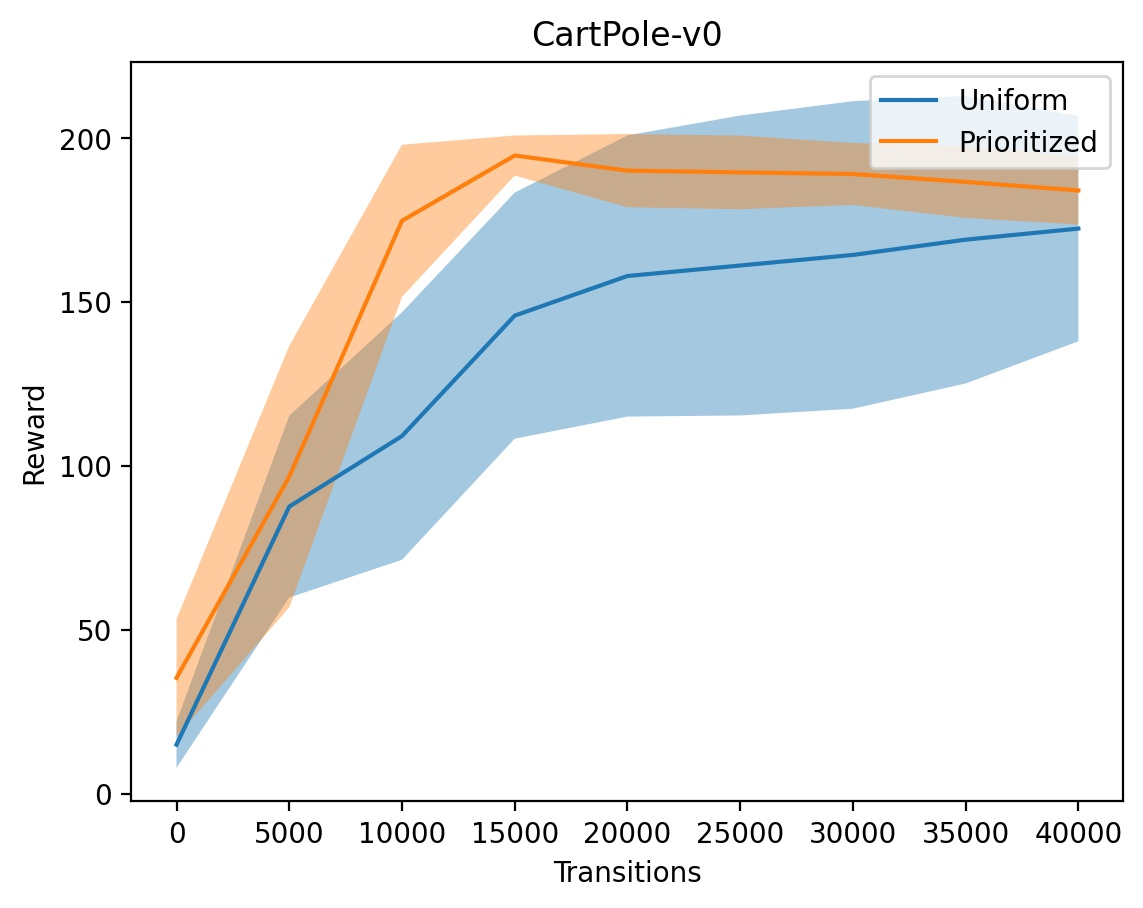
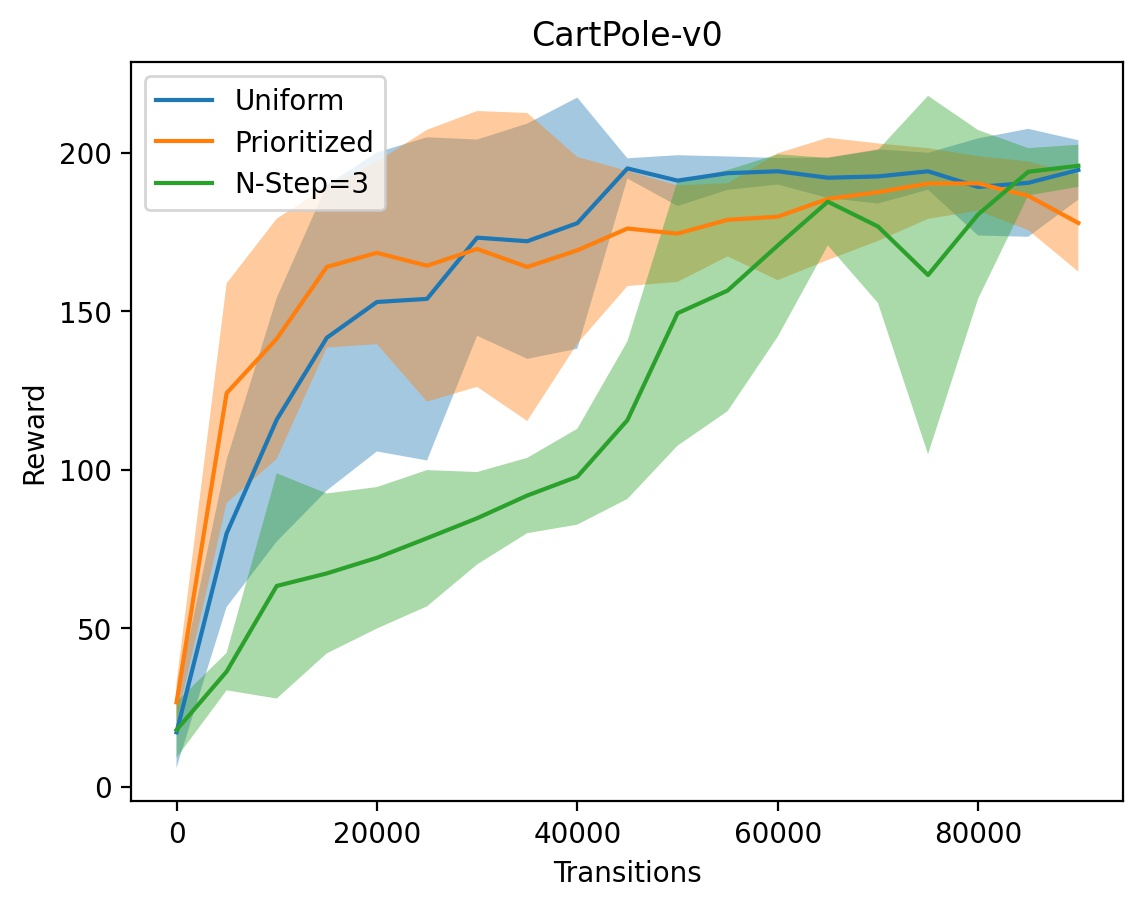
fix bug with beta

diff --git a/train.py b/train.py
@@ -6,8 +6,8 @@ import torch.nn as nn
 import torch.optim as optim
 
 from copy import deepcopy
-from memory.utils import device, set_seed
-from memory.buffer import ReplayBuffer, PrioritizedReplayBuffer
+from memory.utils import device, set_seed, linear_schedule
+from memory.buffer import ReplayBuffer, PrioritizedReplayBuffer, NStepReplayBuffer
 
 
 class DQN:
@@ -85,6 +85,9 @@ def train(env_name, model, buffer, timesteps=200_000, start_train=1000, batch_si
     env = gym.make(env_name)
     set_seed(env, seed=seed)
 
+    if hasattr(buffer, "reset_scheduler"):
+        buffer.reset_scheduler()
+
     rewards_total, stds_total = [], []
     loss_count, total_loss = 0, 0
 
@@ -111,7 +114,7 @@ def train(env_name, model, buffer, timesteps=200_000, start_train=1000, batch_si
         state = next_state
 
         if step > start_train:
-            if isinstance(buffer, ReplayBuffer):
+            if isinstance(buffer, ReplayBuffer) or isinstance(buffer, NStepReplayBuffer):
                 batch = buffer.sample(batch_size)
                 loss, td_error = model.update(batch)
             elif isinstance(buffer, PrioritizedReplayBuffer):
@@ -119,7 +122,6 @@ def train(env_name, model, buffer, timesteps=200_000, start_train=1000, batch_si
                 loss, td_error = model.update(batch, weights=weights)
 
                 buffer.update_priorities(tree_idxs, td_error.numpy())
-                buffer.beta = buffer.beta - (buffer.beta - 1.0) * step / timesteps
             else:
                 raise RuntimeError("Unknown buffer")
 
@@ -130,12 +132,12 @@ def train(env_name, model, buffer, timesteps=200_000, start_train=1000, batch_si
                 mean, std = evaluate_policy(env_name, model, episodes=10, seed=seed)
 
                 print(f"Episode: {episodes}, Step: {step}, Reward mean: {mean:.2f}, Reward std: {std:.2f}, Loss: {total_loss / loss_count:.4f}, Eps: {eps}")
-                if hasattr(buffer, 'max_priority'):
-                    print(f"Max priority: {buffer.max_priority}")
+                # if hasattr(buffer, 'max_priority'):
+                    # print(f"Max priority: {buffer.max_priority}")
 
                 if mean > best_reward:
                     best_reward = mean
-                    model.save()
+                    # model.save()
 
                 rewards_total.append(mean)
                 stds_total.append(std)
@@ -143,13 +145,15 @@ def train(env_name, model, buffer, timesteps=200_000, start_train=1000, batch_si
     return np.array(rewards_total), np.array(stds_total)
 
 
-def run_experiment(config, use_priority=False, n_seeds=10):
+def run_experiment(config, use_priority=False, use_nstep=False, n_seeds=10):
     torch.manual_seed(0)
     mean_rewards = []
 
     for seed in range(5, n_seeds + 5):
         if use_priority:
             buffer = PrioritizedReplayBuffer(**config["buffer"])
+        elif use_nstep:
+            buffer = NStepReplayBuffer(**config["buffer"])
         else:
             buffer = ReplayBuffer(**config["buffer"])
         model = DQN(**config["model"])
@@ -164,35 +168,13 @@ def run_experiment(config, use_priority=False, n_seeds=10):
 
 if __name__ == "__main__":
     import matplotlib.pyplot as plt
+    SEEDS = 1
 
-    # config = {
-    #     "buffer": {
-    #         "state_size": 8,
-    #         "action_size": 1,  # action is discrete
-    #         "buffer_size": 100_000
-    #     },
-    #     "model": {
-    #         "state_size": 8,
-    #         "action_size": 4,
-    #         "gamma": 0.99,
-    #         "lr": 1e-3,
-    #         "tau": 0.001
-    #     },
-    #     "train": {
-    #         "env_name": "LunarLander-v2",
-    #         "timesteps": 500_000,
-    #         "start_train": 10_000,
-    #         "batch_size": 128,
-    #         "test_every": 5000,
-    #         "eps_max": 0.5
-    #     }
-    # }
-
-    config = {
+    common_config = {
         "buffer": {
             "state_size": 4,
             "action_size": 1,  # action is discrete
-            "buffer_size": 50_000
+            "buffer_size": 50_000,
         },
         "model": {
             "state_size": 4,
@@ -204,30 +186,41 @@ if __name__ == "__main__":
         "train": {
             "env_name": "CartPole-v0",
             "timesteps": 50_000,
-            "start_train": 5000,
+            "start_train": 1000,
             "batch_size": 64,
             "test_every": 5000,
-            "eps_max": 0.2
+            "eps_max": 0.8,
+            "eps_min": 0.1,
         }
     }
-    priority_config = deepcopy(config)
-    priority_config["buffer"].update({"alpha": 0.8, "beta": 0.3})
 
-    mean_reward, std_reward = run_experiment(config, n_seeds=5)
-    mean_priority_reward, std_priority_reward = run_experiment(priority_config, use_priority=True, n_seeds=5)
+    priority_config = deepcopy(common_config)
+    # TODO: для чистоты сравнения вырубить эксплоринг, тогда все плюсы будут исключительно от приоритизации, а не рандома
+    # TODO: проверить что при alpha=0, beta=1 результат аналогичен обычному буферу
+    priority_config["buffer"].update({"alpha": 0.6, "beta": 0.4, "beta_scheduler": linear_schedule(1.0, 50_000)})
 
-    steps = np.arange(mean_reward.shape[0]) * config["train"]["test_every"]
+    # nstep_config = deepcopy(common_config)
+    # nstep_config["buffer"].update({"n_step": 2, "gamma": 0.99})
 
-    plt.plot(steps, mean_reward, label="Uniform")
-    plt.fill_between(steps, mean_reward - std_reward, mean_reward + std_reward, alpha=0.4)
+    mean_reward, std_reward = run_experiment(common_config, n_seeds=SEEDS)
+    mean_priority_reward, std_priority_reward = run_experiment(priority_config, use_priority=True, n_seeds=SEEDS)
+    # mean_nstep_reward, std_nstep_reward = run_experiment(nstep_config, use_nstep=True, n_seeds=SEEDS)
+
+    steps = np.arange(mean_priority_reward.shape[0]) * common_config["train"]["test_every"]
+
+    # plt.plot(steps, mean_reward, label="Uniform")
+    # plt.fill_between(steps, mean_reward - std_reward, mean_reward + std_reward, alpha=0.4)
+
     plt.plot(steps, mean_priority_reward, label="Prioritized")
     plt.fill_between(steps, mean_priority_reward - std_priority_reward, mean_priority_reward + std_priority_reward, alpha=0.4)
 
+    # plt.plot(steps, mean_nstep_reward, label=f"N-Step={str(nstep_config['buffer']['n_step'])}")
+    # plt.fill_between(steps, mean_nstep_reward - std_nstep_reward, mean_nstep_reward + std_nstep_reward, alpha=0.4)
+
     plt.legend()
     plt.title("CartPole-v0")
-    # plt.title("LunarLander-v2")
     plt.xlabel("Transitions")
     plt.ylabel("Reward")
     plt.savefig("cartpole.jpg", dpi=200, bbox_inches='tight')
-    # plt.savefig("lunarlander.jpg", dpi=200, bbox_inches='tight')
+    plt.show()
 

diff --git a/memory/buffer.py b/memory/buffer.py
@@ -2,12 +2,13 @@ import torch
 import random
 import numpy as np
 
+from collections import deque
 from memory.tree import SumTree
 from memory.utils import device
 
 
 class PrioritizedReplayBuffer:
-    def __init__(self, state_size, action_size, buffer_size, eps=1e-2, alpha=0.1, beta=0.1):
+    def __init__(self, state_size, action_size, buffer_size, eps=1e-2, alpha=0.1, beta=0.1, beta_scheduler=None):
         self.tree = SumTree(size=buffer_size)
 
         # PER params
@@ -15,6 +16,7 @@ class PrioritizedReplayBuffer:
         self.alpha = alpha
         self.beta = beta
         self.max_priority = eps # init priority as eps
+        self.beta_scheduler = beta_scheduler if beta_scheduler is not None else lambda x: x
 
         # state, action, reward, next_state, done
         self.state = torch.empty(buffer_size, state_size, dtype=torch.float)
@@ -26,6 +28,9 @@ class PrioritizedReplayBuffer:
         self.count = 0
         self.real_size = 0
         self.size = buffer_size
+
+    def reset_scheduler(self):
+        self.beta_scheduler.calls = 0
 
     def add(self, transition):
         state, action, reward, next_state, done = transition
@@ -60,7 +65,7 @@ class PrioritizedReplayBuffer:
             sample_idxs.append(sample_idx)
 
         probs = priorities / self.tree.total
-        weights = (self.real_size * probs) ** -self.beta
+        weights = (self.real_size * probs) ** -self.beta_scheduler(self.beta)
         weights = weights / weights.max()
 
         batch = (
@@ -112,6 +117,69 @@ class ReplayBuffer:
 
         sample_idxs = np.random.choice(self.real_size, batch_size, replace=False)
 
+        batch = (
+            self.state[sample_idxs].to(device()),
+            self.action[sample_idxs].to(device()),
+            self.reward[sample_idxs].to(device()),
+            self.next_state[sample_idxs].to(device()),
+            self.done[sample_idxs].to(device())
+        )
+        return batch
+
+
+class NStepReplayBuffer:
+    def __init__(self, state_size, action_size, buffer_size, n_step=3, gamma=0.99):
+        # n-step buffer
+        self.n_step_buffer = deque(maxlen=n_step)
+        self.gamma = gamma
+        self.n_step = n_step
+
+        # state, action, reward, next_state, done
+        self.state = torch.empty(buffer_size, state_size, dtype=torch.float)
+        self.action = torch.empty(buffer_size, action_size, dtype=torch.float)
+        self.reward = torch.empty(buffer_size, dtype=torch.float)
+        self.next_state = torch.empty(buffer_size, state_size, dtype=torch.float)
+        self.done = torch.empty(buffer_size, dtype=torch.int)
+
+        self.count = 0
+        self.real_size = 0
+        self.size = buffer_size
+
+    def add(self, transition):
+        self.n_step_buffer.append(transition)
+
+        if len(self.n_step_buffer) < self.n_step:
+            return
+
+        state, action = self.n_step_buffer[0][:2]
+        reward, next_state, done = self.get_n_step_return(self.n_step_buffer, self.gamma)
+
+        self.state[self.count] = torch.as_tensor(state, dtype=torch.float)
+        self.action[self.count] = torch.as_tensor(action, dtype=torch.float)
+        self.reward[self.count] = torch.as_tensor(reward, dtype=torch.float)
+        self.next_state[self.count] = torch.as_tensor(next_state, dtype=torch.float)
+        self.done[self.count] = torch.as_tensor(done, dtype=torch.float)
+
+        self.count = (self.count + 1) % self.size
+        self.real_size = min(self.size, self.real_size + 1)
+
+    def get_n_step_return(self, n_step_buffer, gamma):
+        n_reward, n_next_state, n_done = n_step_buffer[-1][-3:]
+
+        for transition in reversed(list(n_step_buffer)[:-1]):
+            reward, next_state, done = transition[-3:]
+
+            n_reward = reward + gamma * n_reward * (1 - done)
+
+            if done:
+                n_next_state, n_done = next_state, done
+
+        return n_reward, n_next_state, n_done
+
+    def sample(self, batch_size):
+        assert self.real_size >= batch_size
+
+        sample_idxs = np.random.choice(self.real_size, batch_size, replace=False)
         batch = (
             self.state[sample_idxs].to(device()),
             self.action[sample_idxs].to(device()),

diff --git a/memory/utils.py b/memory/utils.py
@@ -4,6 +4,14 @@ import random
 import numpy as np
 
 
+def linear_schedule(max_value, total_steps):
+    def inner(value):
+        inner.calls += 1
+        return value + (max_value - value) * inner.calls / total_steps
+    inner.calls = 0
+    return inner
+
+
 
 def set_seed(env, seed=0):
     os.environ["PYTHONHASHSEED"] = str(seed)
